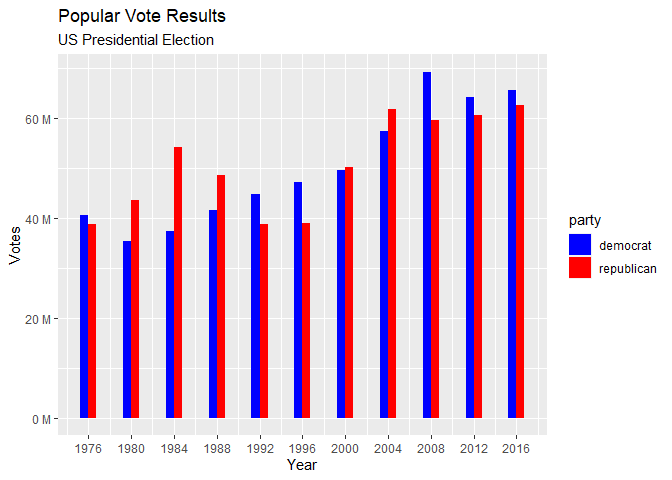
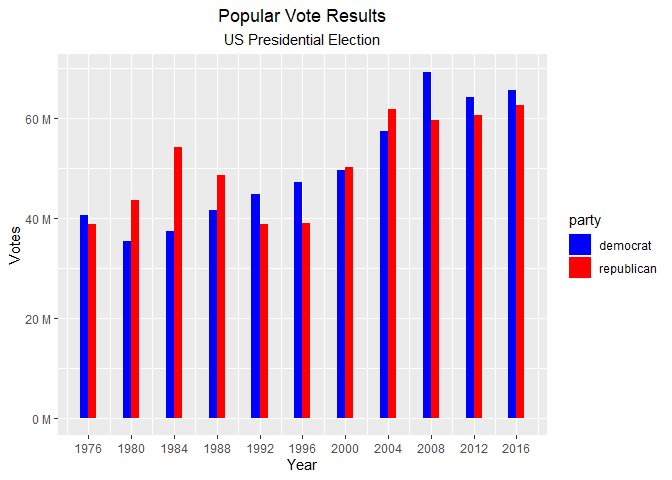
added centered plot titles

Changed region(s): [[0.0625, 0.0, 0.5938, 0.0938]]

diff --git a/election/election.md b/election/election.md
@@ -14,9 +14,9 @@ p_load(here,RSQLite,dbplyr,DBI,tidyverse,ggplot2,scales,gganimate,knitr,gifski,p
 Now to read in the data:
 
 ``` r
-data <- read.csv(here(
-  "election/data/1976-2016-president.csv"
-  ))
+data <- read.csv(
+  here("election/data/1976-2016-president.csv")
+  )
 ```
 
 Now, we will use sql to query the database. But first, we have to create
@@ -108,7 +108,11 @@ ggplot(data = dvr_year) +
     title    = "Popular Vote Results",
     subtitle = "US Presidential Election"
     ) +
-  xlab("Year") + ylab("Votes") 
+  xlab("Year") + ylab("Votes") +
+  theme(
+    plot.title = element_text(hjust = .5),
+    plot.subtitle = element_text(hjust = .5)
+  )
 ```
 
     ## Warning: Ignoring unknown aesthetics: width
@@ -129,7 +133,11 @@ ggplot(dvr_year) +
   labs(
     title = "Ratio of Democrat and Republican Voters",
     subtitle = "Presidential Election: {closest_state}"
-    )
+    ) +
+  theme(
+    plot.title = element_text(hjust = .5),
+    plot.subtitle = element_text(hjust = .5)
+  )
 ```
 
 ![](election_files/figure-gfm/anim-1.gif)<!-- -->
